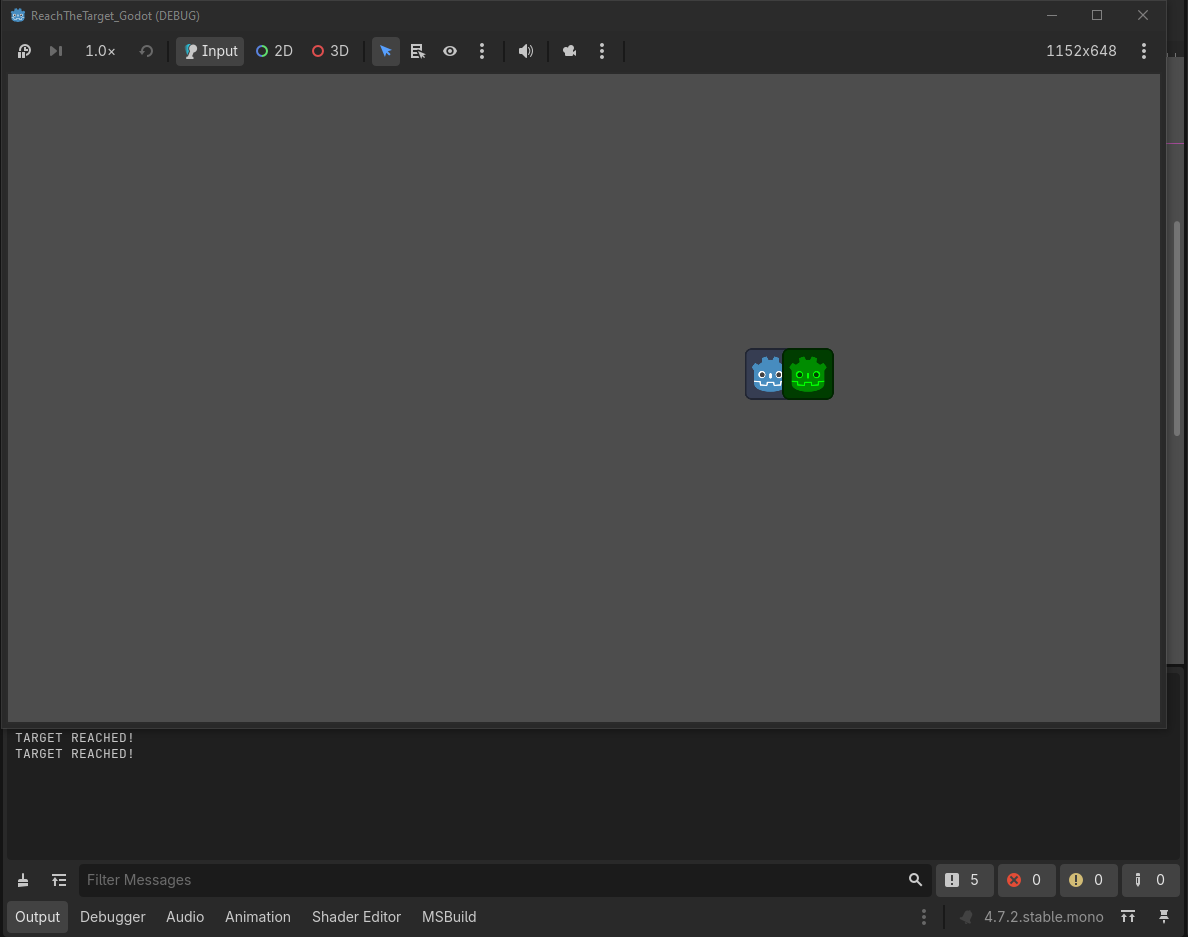
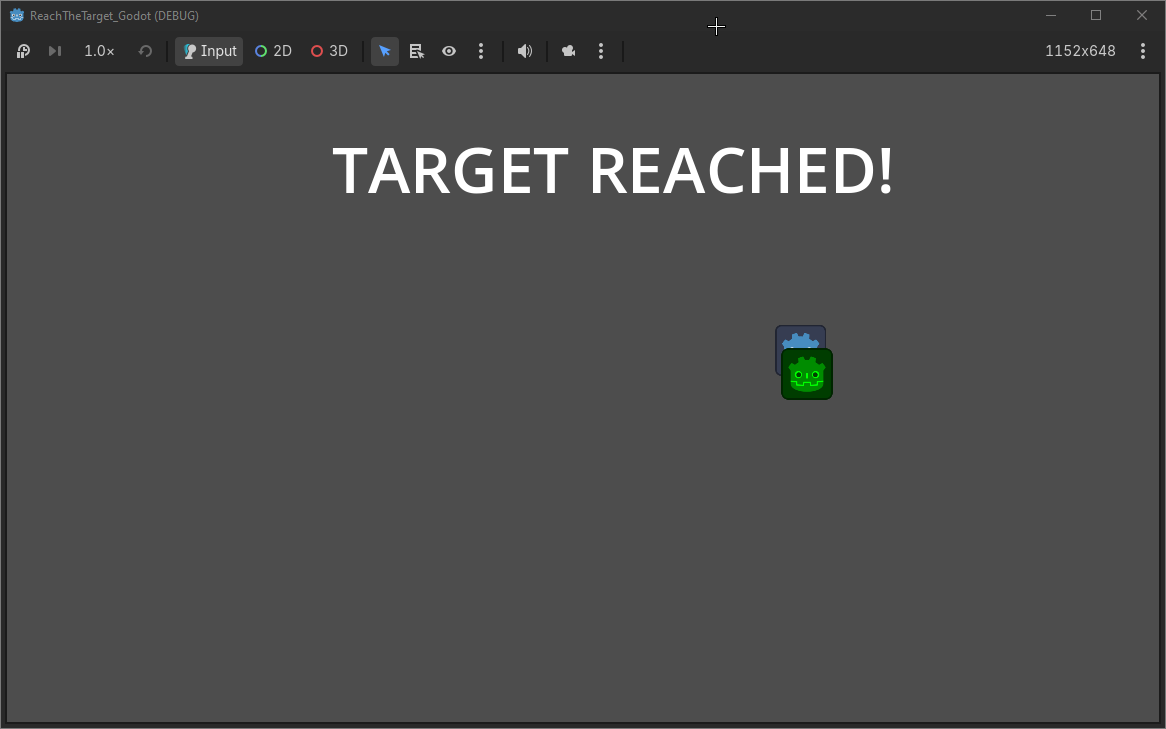
Implement Target Interaction - Godot

Changed region(s): [[0.0, 0.0, 1.0, 1.0], [0.2779, 0.1811, 0.7719, 0.2716], [0.6175, 0.3621, 0.741, 0.5734]]

diff --git a/Godot/reach-the-target-godot/Scenes/Target.cs b/Godot/reach-the-target-godot/Scenes/Target.cs
@@ -3,11 +3,19 @@ using Godot;
 
 public partial class Target : Area2D
 {
+	private Label message;
+
+	public override void _Ready()
+	{
+		message = GetNode<Label>("../Message");
+	}
+
 	private void OnBodyEntered(Node2D body)
 	{
 		if (body.Name == "Player")
 		{
 			GD.Print("TARGET REACHED!");
+			message.Text = "TARGET REACHED!";
 		}
 	}
 }
